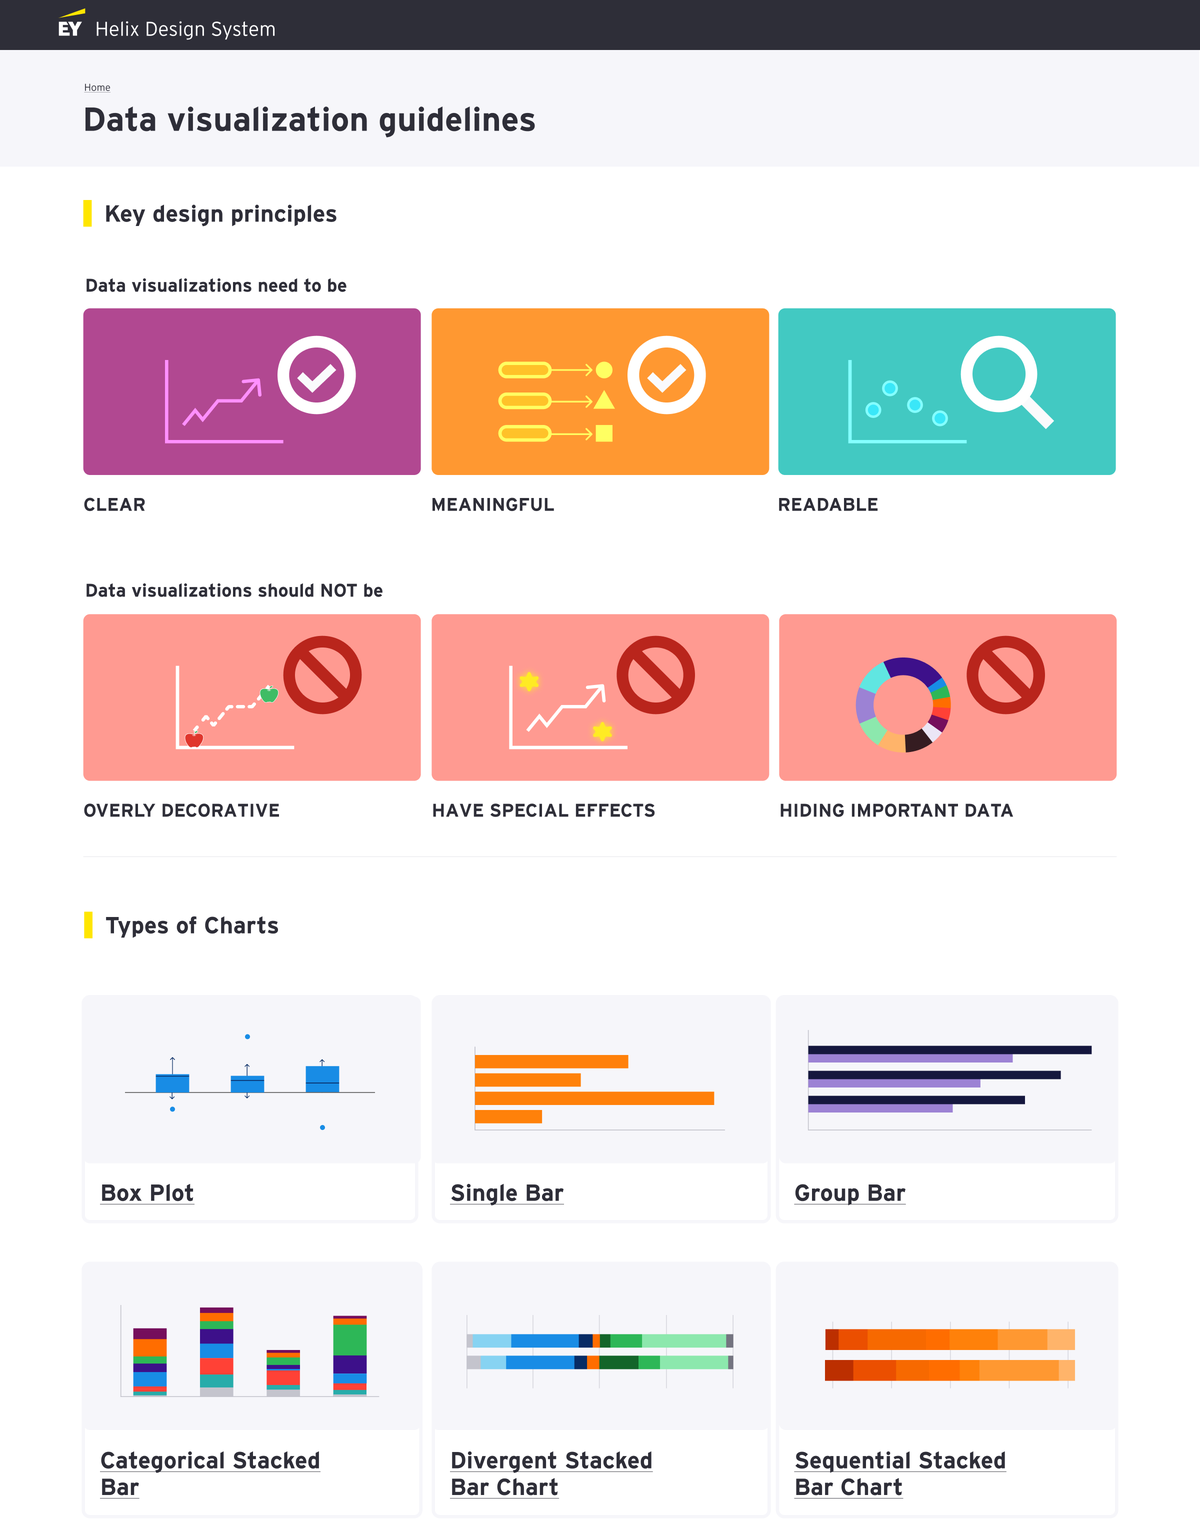
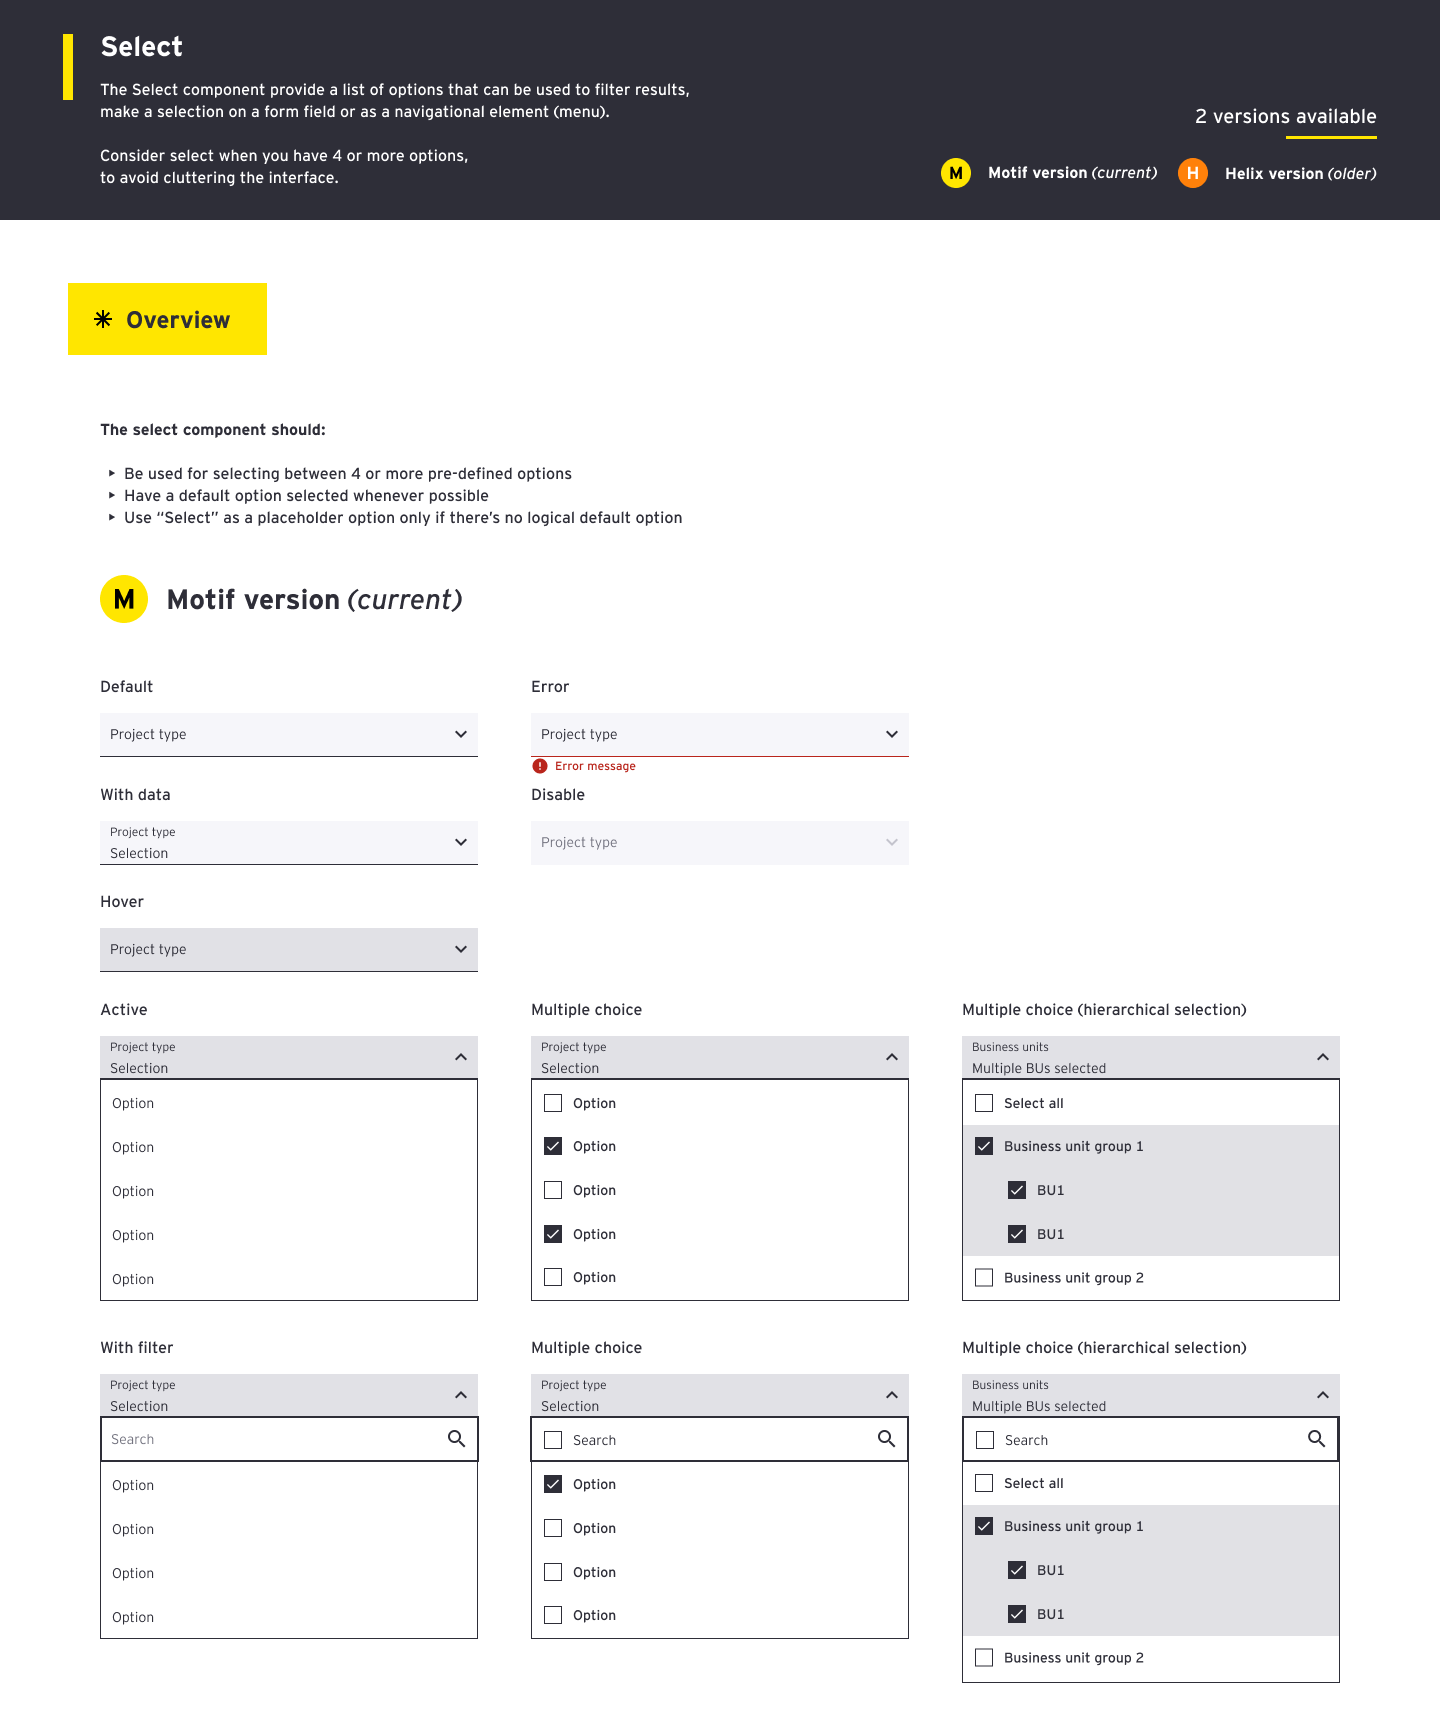
helix: component pages

diff --git a/contents/ey-helix/_.md b/contents/ey-helix/_.md
@@ -28,17 +28,17 @@ I authored the Motif Guidelines for Helix Visualizations: color, typography and 
 
 DIAGRAM: motif.svg "Auditor interviews shaped the data patterns; EY's audit tools adopted the Motif Guidelines"
 
-![Data visualization guidelines: clear, meaningful, readable; not decorative or hiding data; chart types below](screen-1.png "The visualization guidelines: what a chart must be, what it must not be, which type to use")
-
 ### One architecture for a team of ten
 
 I coordinated a team of ten designers alongside Product, Content and Business Development, and provided the guidance, architecture and patterns the other designers built from. As Community Lead I mentored them and tracked the team's health.
 
 DIAGRAM: team.svg "I set the guidance, architecture and patterns the other designers built from"
 
-![Global nav bar spec: Motif version marked current, Helix version older, shown at global, project and analyzer level](screen-2.png "Navigation spec: the Motif version at three levels, the older Helix version kept beside it")
+![Select component page: usage rules, then default, error, hover, active, multiple choice and hierarchical states](screen-1.png "Select: usage rules and every state, the Motif version marked current over the older Helix one")
 
-![Analyzer card states: default, selected, disabled, hover, active, update available and in progress](screen-3.png "Analyzer card states written out once, so every designer built the same card")
+![Date picker component page: default, data, range, hover, error, disabled and open calendar states beside a spec](screen-2.png "Date picker: the states on the left, sizes and colors on the right")
+
+![Analyzer filters modal shown twice: collapsed, then open with business unit group and unit lists](screen-3.png "Modal with a form: analyzer filters closed, then open on business units. Details blurred")
 
 ## Outcome
 
